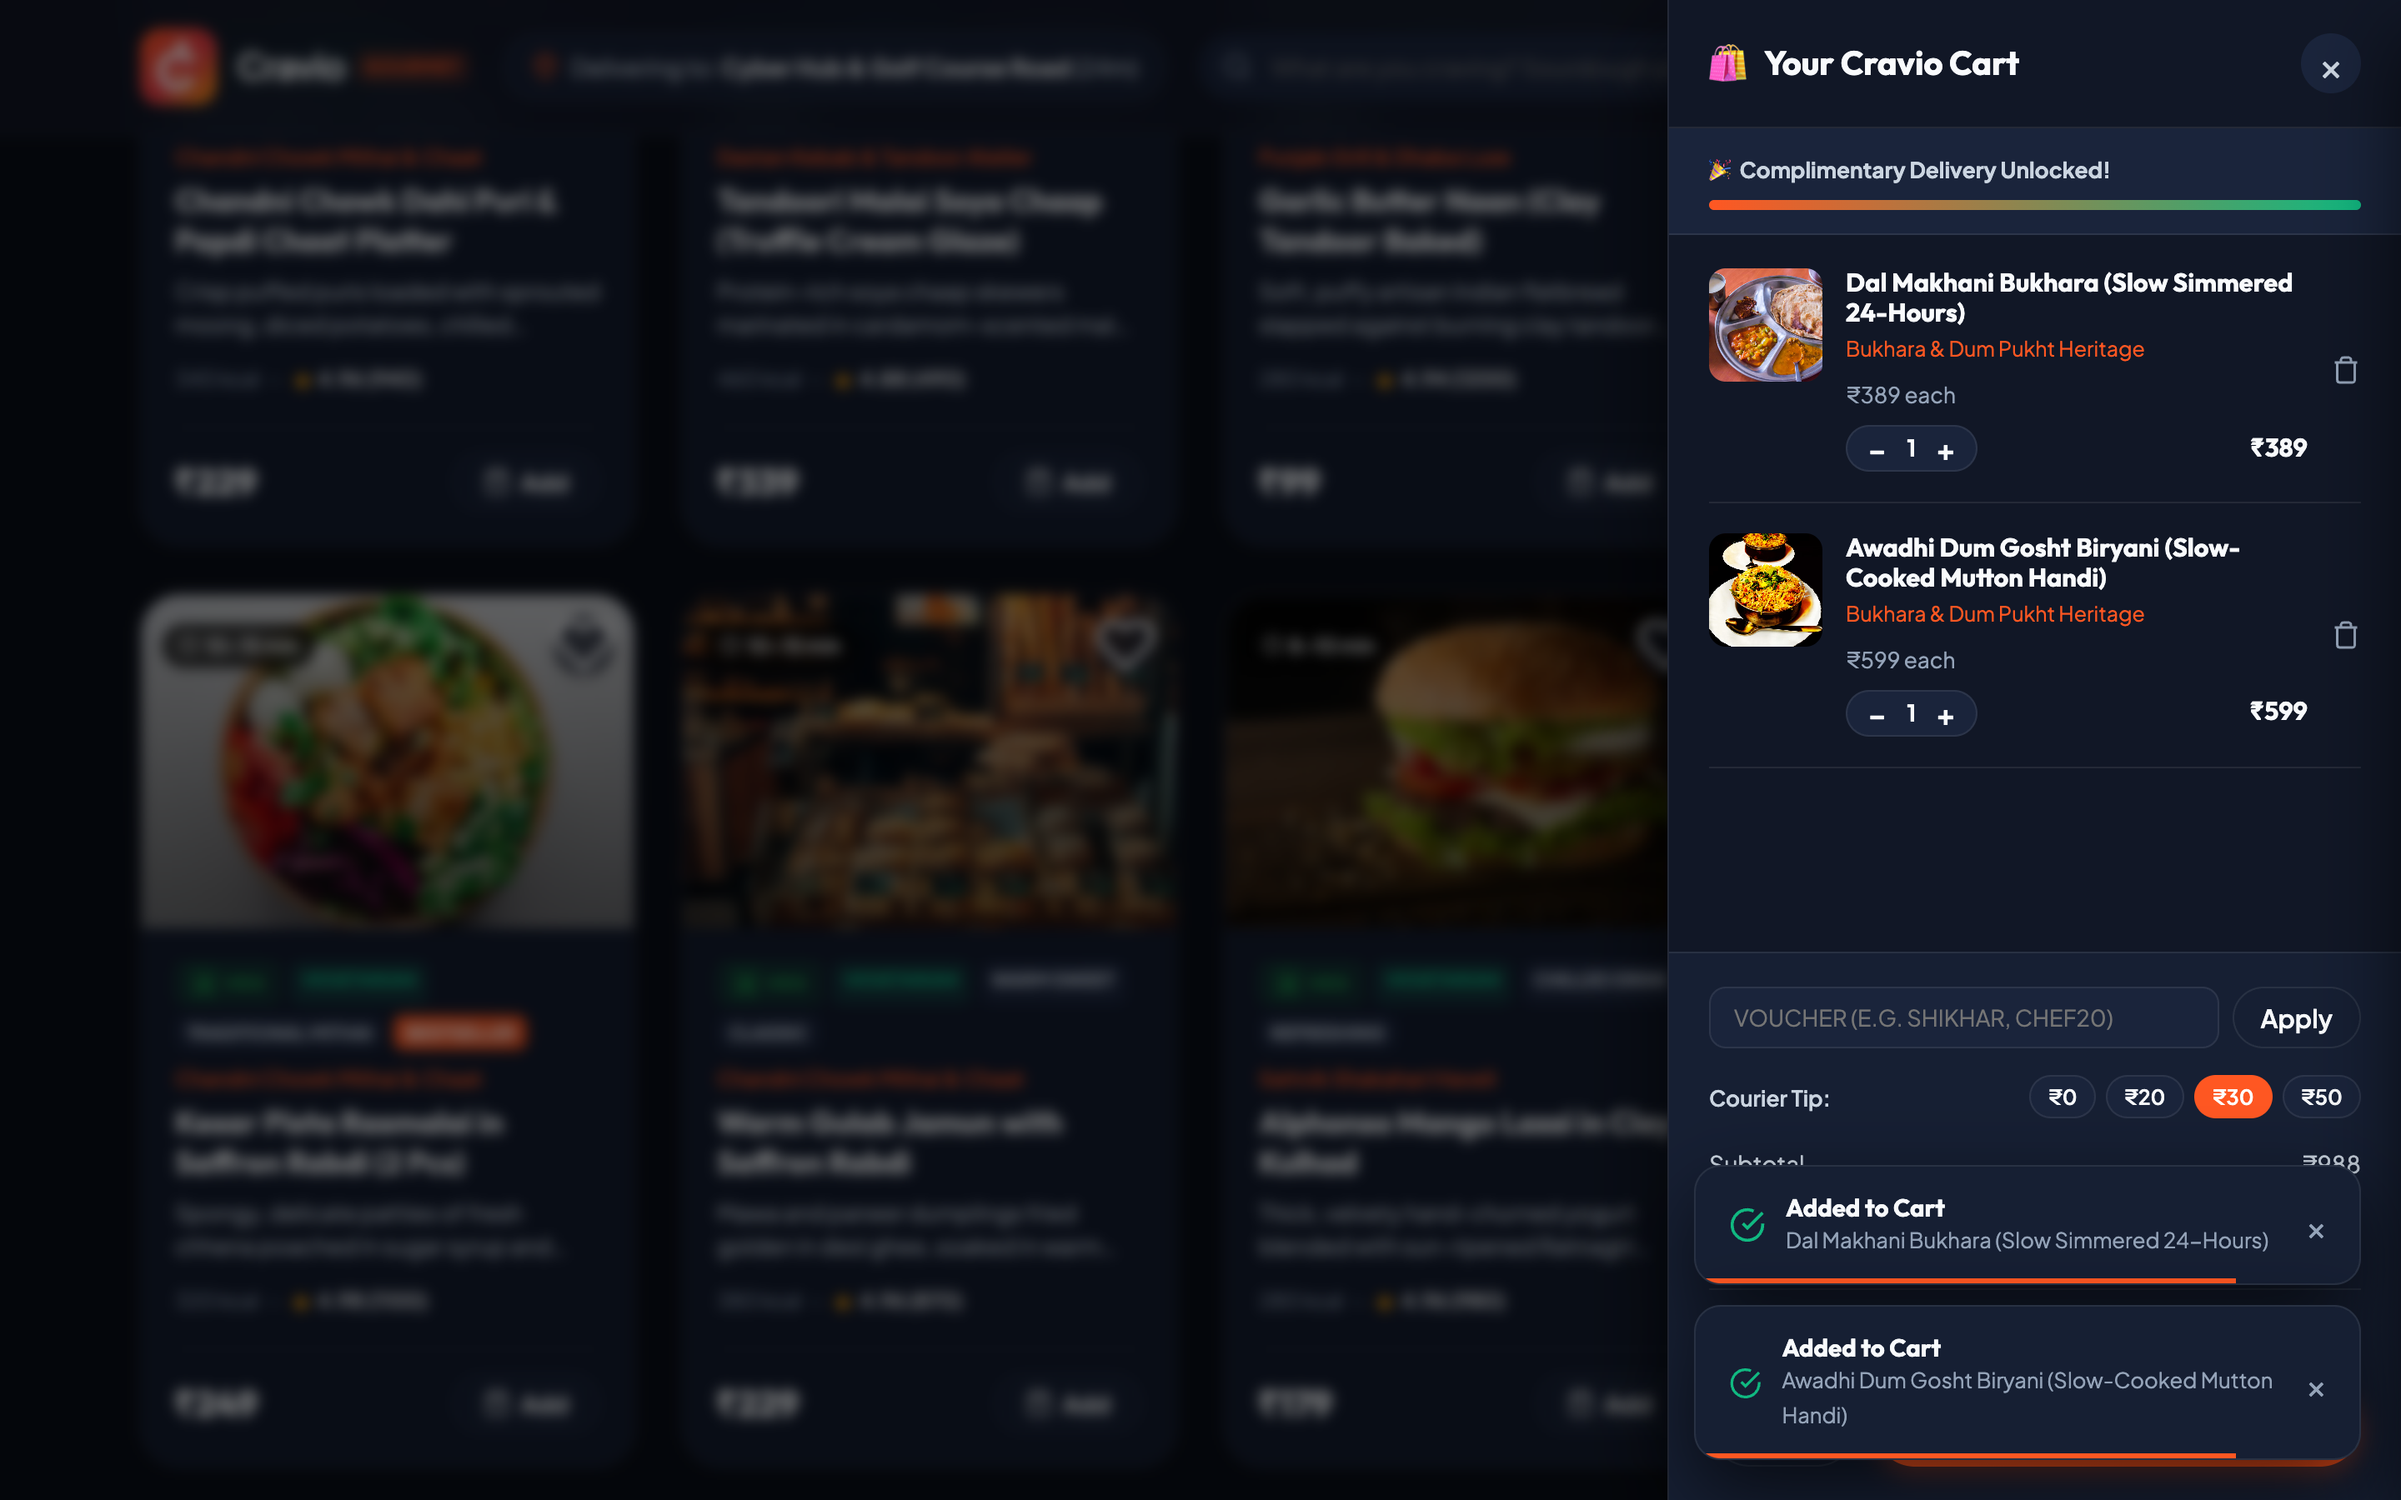
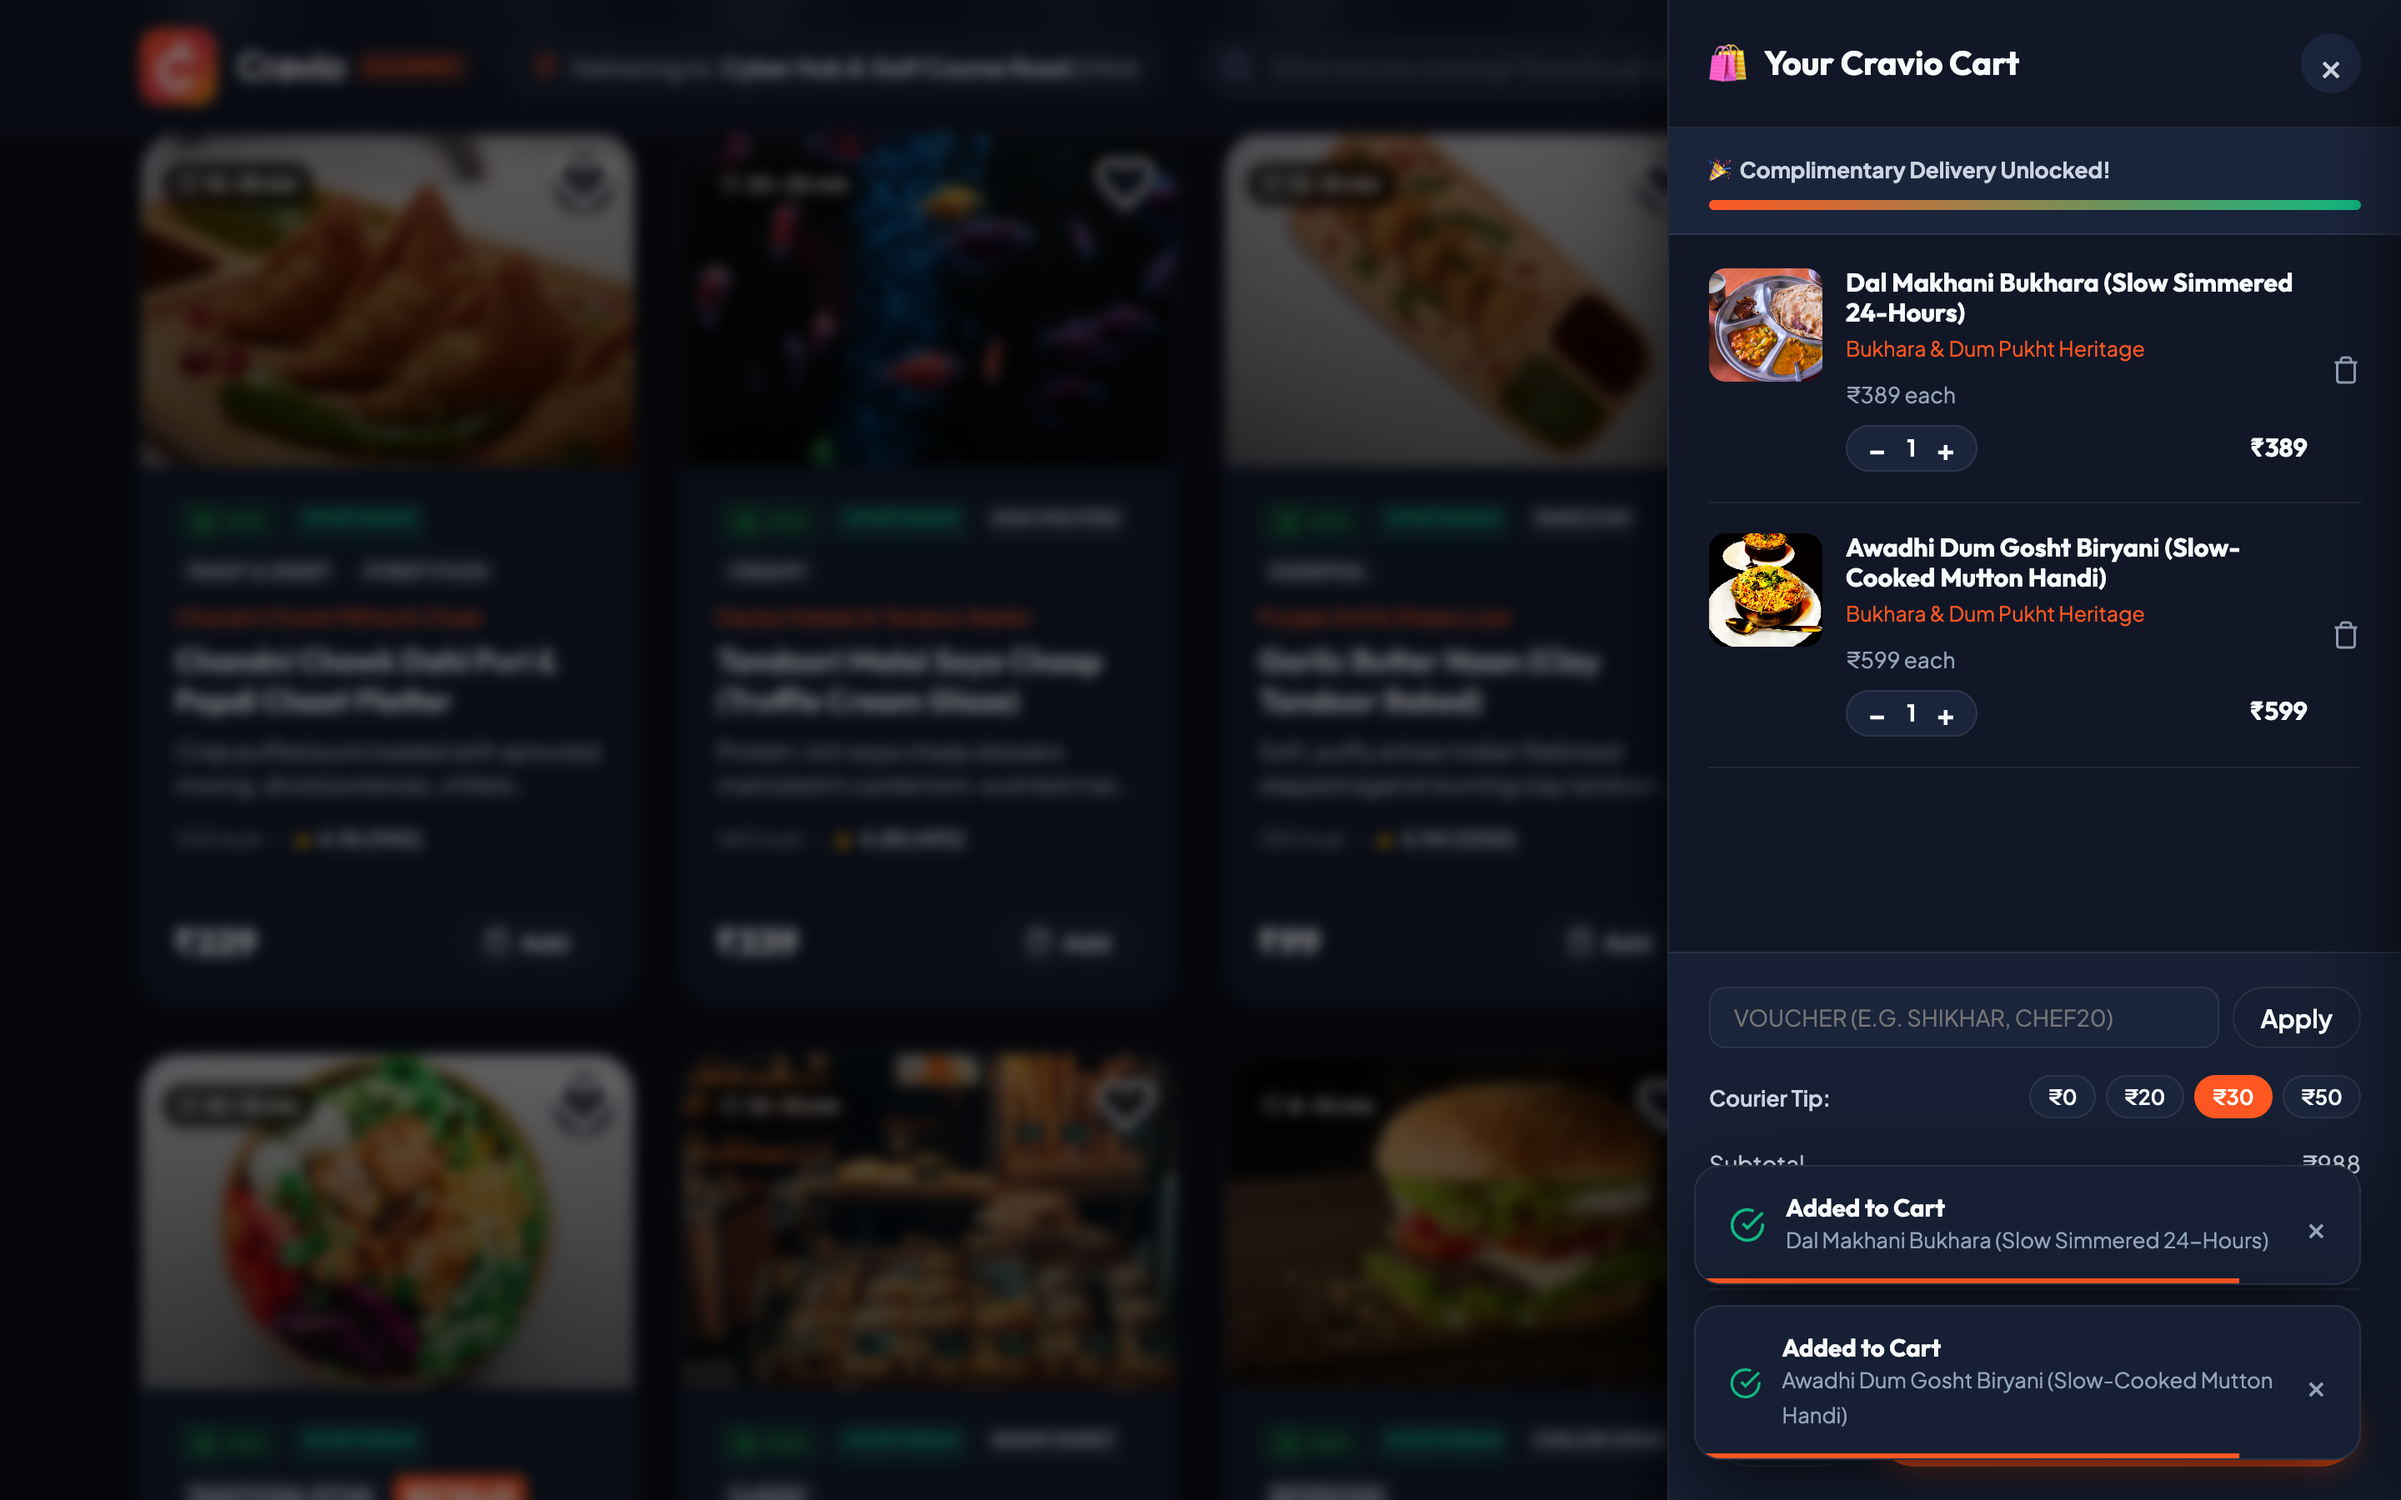
Remove Kolkata double egg mutton kathi roll and Mutton seekh kebab

Changed region(s): [[0.0312, 0.0622, 0.7188, 1.0], [0.5, 0.9022, 0.6875, 1.0]]

diff --git a/js/data.js b/js/data.js
@@ -14,18 +14,18 @@ const APP_DATA = {
   currency: "₹",
 
   categories: [
-    { id: "all", name: "All Cravings", icon: "✨", count: 41 },
+    { id: "all", name: "All Cravings", icon: "✨", count: 39 },
     { id: "trending", name: "Viral & Trending 🔥", icon: "🔥", count: 7 },
     { id: "pizza", name: "Artisan Pizzas", icon: "🍕", count: 4 },
     { id: "coffee", name: "Specialty Coffee & Brews", icon: "☕", count: 4 },
-    { id: "biryani", name: "Dum Biryani & Rice", icon: "🍚", count: 4 },
-    { id: "tandoor", name: "Tandoor & Kebabs", icon: "🍢", count: 4 },
-    { id: "curries", name: "Royal Curries & Dal", icon: "🍲", count: 4 },
+    { id: "curries", name: "Royal Curries & Dal", icon: "🍲", count: 5 },
+    { id: "tandoor", name: "Tandoor & Kebabs", icon: "🍢", count: 5 },
+    { id: "biryani", name: "Dum Biryani & Rice", icon: "🍚", count: 3 },
     { id: "southindian", name: "South Indian Gourmet", icon: "🥞", count: 3 },
-    { id: "chaat", name: "Street Chaats & Rolls", icon: "🥙", count: 4 },
-    { id: "breads", name: "Tandoori Breads & Naan", icon: "🫓", count: 3 },
-    { id: "desserts", name: "Royal Mithai & Bakes", icon: "🍧", count: 3 },
-    { id: "beverages", name: "Boba & Desi Drinks", icon: "🧋", count: 3 },
+    { id: "chaat", name: "Street Chaats & Rolls", icon: "🥙", count: 2 },
+    { id: "breads", name: "Tandoori Breads & Naan", icon: "🫓", count: 2 },
+    { id: "desserts", name: "Royal Mithai & Bakes", icon: "🍧", count: 2 },
+    { id: "beverages", name: "Boba & Desi Drinks", icon: "🧋", count: 2 },
   ],
 
   promotions: [
@@ -1050,48 +1050,6 @@ const APP_DATA = {
       allergens: ["Fish"],
       badge: "COASTAL SEAFOOD",
       popular: false
-    },
-    {
-      id: "ind-nv-10",
-      name: "Kolkata Double Egg Double Mutton Kathi Roll",
-      restaurantId: "halwai",
-      restaurantName: "Chandni Chowk Mithai & Chaat",
-      category: "chaat",
-      price: 299,
-      rating: 4.94,
-      reviews: 910,
-      calories: "580 kcal",
-      prepTime: "15-20 min",
-      isVeg: false,
-      dietary: ["Non-Veg", "Street Legend", "Bestseller"],
-      spicyLevel: 2,
-      image: "https://images.unsplash.com/photo-1599488615731-7e5c2823ff28?w=800&auto=format&fit=crop&q=80",
-      description: "Flaky pan-fried multi-layer paratha coated with two farm-fresh beaten eggs, stuffed generously with pan-seared spiced mutton boti, shredded onions, chaat masala, and fresh lime juice.",
-      ingredients: ["Flaky Paratha", "Double Eggs", "Spiced Mutton Boti", "Sliced Red Onions", "Chaat Masala"],
-      allergens: ["Gluten", "Egg"],
-      badge: "PARK STREET ICON",
-      popular: true
-    },
-    {
-      id: "ind-nv-11",
-      name: "Mutton Seekh Kebab with Laccha Onion & Rumali",
-      restaurantId: "dastan",
-      restaurantName: "Dastan Kebab & Tandoor Atelier",
-      category: "tandoor",
-      price: 499,
-      rating: 4.93,
-      reviews: 580,
-      calories: "540 kcal",
-      prepTime: "20-25 min",
-      isVeg: false,
-      dietary: ["Non-Veg", "High Protein", "Smoked"],
-      spicyLevel: 2,
-      image: "https://images.unsplash.com/photo-1599488615731-7e5c2823ff28?w=800&auto=format&fit=crop&q=80",
-      description: "Skewered minced mutton infused with aromatic whole garam masala, roasted cumin, fresh mint, ginger, and green chillies, char-broiled on glowing charcoal. Served with paper-thin Rumali roti.",
-      ingredients: ["Minced Mutton", "Fresh Mint", "Green Chillies", "Garam Masala", "Rumali Roti"],
-      allergens: ["Gluten"],
-      badge: "CHARCOAL SKEWER",
-      popular: true
     },
     {
       id: "ind-nv-12",

diff --git a/js/app.js b/js/app.js
@@ -65,8 +65,16 @@ const App = {
     if (!container) return;
 
     const currentCat = window.state.filters.category;
+    const counts = { all: APP_DATA.foodItems.length };
+    APP_DATA.foodItems.forEach(f => {
+      counts[f.category] = (counts[f.category] || 0) + 1;
+    });
+
     container.innerHTML = APP_DATA.categories
-      .map(cat => Components.renderCategoryPill(cat, cat.id === currentCat))
+      .map(cat => {
+        const dynamicCat = { ...cat, count: counts[cat.id] ?? cat.count };
+        return Components.renderCategoryPill(dynamicCat, cat.id === currentCat);
+      })
       .join("");
   },
 

diff --git a/README.md b/README.md
@@ -28,7 +28,7 @@ All high-resolution application screenshots are saved in the [`screenshot/`](./s
 
 ## 🍕 Trending Foods, Artisan Pizzas & Specialty Coffees
 
-Cravio features a hand-curated menu of 41 gourmet creations (24 Pure Veg, 17 Non-Veg) across 11 categories:
+Cravio features a hand-curated menu of 39 gourmet creations (24 Pure Veg, 15 Non-Veg) across 11 categories:
 
 ### 🍕 Artisan Sourdough Pizzas
 - **Truffle Burrata & Wild Mushroom Sourdough Pizza (🟢 Veg)**: 48h slow-fermented wild sourdough, whole fresh burrata, black summer truffle oil, roasted wild shiitake, and San Marzano tomatoes.
@@ -82,7 +82,7 @@ Cravio features a hand-curated menu of 41 gourmet creations (24 Pure Veg, 17 Non
 
 ## 🌟 Key Features
 
-1. **Gourmet Dataset**: 41 meticulously curated items with calorie counts, preparation time, allergen warnings, spice level ratings, and ingredient lists.
+1. **Gourmet Dataset**: 39 meticulously curated items with calorie counts, preparation time, allergen warnings, spice level ratings, and ingredient lists.
 2. **Dynamic In-Card Steppers**: Cards transform their "Add" button into interactive `[-] [qty] [+]` steppers when added to the cart.
 3. **Interactive Live Delivery Tracker**: 4-stage order status stepper with an **animated HTML5 Canvas GPS map** simulating a courier vehicle traveling from the kitchen to the customer's address.
 4. **Web Audio API Sound Effects**: Synthesized crystalline chimes for adding items, applying discount vouchers, and order confirmation.
